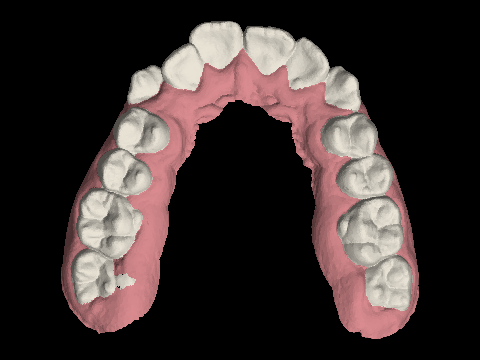
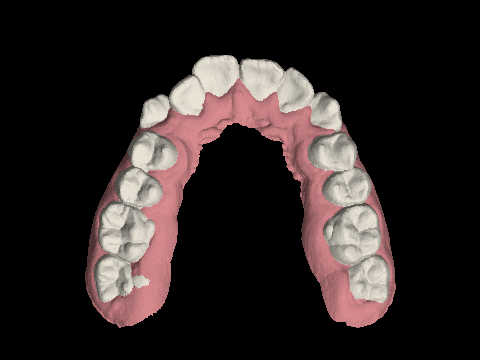
feat(cualign-prototype): 시작 상태를 그림+한 줄+버튼으로 줄이고 케이스 전환 잔상을 없앰 (#90)
- 에이전트 패널 시작 상태: 악궁 라인아트(투명 PNG) + 두 줄 제목 + 「샘플 케이스 고르기」 버튼, 입력창은 숨김
- 「닫기」를 「← 작업 화면으로 돌아가기」로 바꿔 샘플 카드 제목 줄에 둠
- 샘플 카드 제목은 소견만, 처방은 둘째 줄에
- 썸네일 세 장을 같은 축척·가운데·수평 정렬로 다시 그림(render_sample_thumbs.py)
- 뒤로가기·앞으로가기로 케이스를 오갈 때 이전 치아를 먼저 지우고 새 메시를 불러옴
- 시작 그림을 wheel 자산 목록에 추가

Changed region(s): [[0.125, 0.0611, 0.875, 0.9472]]

diff --git a/apps/cualign-prototype/src/cualign/server/static/index.html b/apps/cualign-prototype/src/cualign/server/static/index.html
@@ -97,14 +97,9 @@
   <main class="layout">
     <section class="chat">
       <div id="intro" class="intro">
-        <svg class="mark" viewBox="0 0 32 32" aria-hidden="true">
-          <rect width="32" height="32" rx="2" fill="#000"/>
-          <path fill="#fff" d="M8.91 23.71C12.17 23.71 14.16 21.84 14.22 18.93H10.61C10.51 20.12 9.87 20.75 8.97 20.75C7.86 20.75 7.12 19.81 7.12 17.92C7.12 16.06 7.86 15.13 8.97 15.13C9.87 15.13 10.51 15.77 10.61 16.94H14.22C14.18 14.07 12.13 12.22 8.91 12.22C5.32 12.22 3.16 14.54 3.16 17.96C3.16 21.39 5.32 23.71 8.91 23.71Z"/>
-          <path fill="#76b900" d="M18.03 23.5 18.91 20.59H23.89L24.78 23.5H28.98L24.06 8.65H18.75L13.8 23.5ZM19.81 17.63 21.33 12.65H21.45L22.99 17.63Z"/>
-        </svg>
+        <img class="mark" src="intro-arch.png" alt="" />
         <h1>처방을 말하면<br>단계 계획을 짜고 3D로 보여 줍니다</h1>
-        <p class="lead">"발치 없이, 12개월 안에, 앞니 먼저"처럼 조건을 말하면, 치아를 몇 단계에 걸쳐 어떤 순서로 옮길지 초안을 짜고 규칙으로 검사합니다.</p>
-        <p class="muted">오른쪽에서 케이스를 열면 대화가 시작됩니다.</p>
+        <button id="introPick" class="btn ghost small" type="button">샘플 케이스 고르기 →</button>
       </div>
       <fieldset id="constraints" class="constraints">
         <legend>의사 처방 · 대화로도 수정 가능</legend>
@@ -145,9 +140,11 @@
         <canvas id="viewCanvas"></canvas>
         <!-- 시작 상태: 케이스를 열기 전에는 3D 자리에 샘플 케이스를 둔다 (#46, #90) -->
         <div id="screenStart" class="start-pane">
-          <button id="startClose" class="btn ghost small start-x" type="button" hidden>닫기</button>
           <div class="start-body">
-          <h2>샘플 케이스로 시작하기</h2>
+          <div class="start-head">
+            <h2>샘플 케이스로 시작하기</h2>
+            <button id="startClose" class="btn ghost small" type="button" hidden>← 작업 화면으로 돌아가기</button>
+          </div>
           <div id="sampleCards" class="cards sample-cards"></div>
           <p class="hint">샘플은 공개 데이터셋 Poseidon3D(Kubik &amp; Spanel 2024, CC-BY-4.0)</p>
           <div class="gate-foot">

diff --git a/apps/cualign-prototype/src/cualign/server/static/style.css b/apps/cualign-prototype/src/cualign/server/static/style.css
@@ -275,15 +275,13 @@ button:disabled { cursor:not-allowed; }
 /* ---------- start state (#90): the work screen before a case is open ---------- */
 /* start state of the agent panel: mark + one line, centred like an empty chat (#90) */
 .intro { display: none; flex-direction: column; align-items: center; justify-content: center; text-align: center; padding: 24px; }
-.intro .mark { width: 64px; height: 64px; border: 1px solid var(--line); border-radius: var(--radius); margin-bottom: 20px; }
-.intro h1 { margin: 0 0 12px; font-size: 18px; font-weight: 700; line-height: 1.4; }
-.intro .lead { margin: 0 0 12px; max-width: 320px; color: var(--muted); font-size: 13px; line-height: 1.6; }
-.intro .muted { color: var(--faint); margin: 0; font-size: 12px; }
+.intro .mark { width: 160px; height: 160px; object-fit: contain; margin-bottom: 8px; }
+.intro h1 { margin: 0 0 20px; font-size: 18px; font-weight: 700; line-height: 1.4; }
 .start-pane { display: none; position: absolute; inset: 0; z-index: 5; overflow: auto; padding: 24px; background: var(--bg); }
 .start-body { width: min(840px, 100%); margin: auto; }
 .start-pane h2 { margin: 0 0 12px; font-size: 16px; font-weight: 700; }
 .start-pane .hint { color: var(--muted); font-size: 12px; margin: 12px 0 0; }
-.start-x { position: absolute; top: 16px; right: 16px; }
+.start-head { display: flex; align-items: center; justify-content: space-between; gap: 12px; }
 body.start .intro { display: flex; }
 body.start .start-pane { display: flex; }
 /* picking a sample: the start pane fades out while the case loads, then the workspace fades in */
@@ -304,4 +302,4 @@ body.start .constraints, body.start .transcript, body.start .retry-bar, body.sta
 body.start .view-head, body.start .legend, body.start .stage-bar, body.start .result,
 body.start #fallbackBtn, body.start #caseBtn, body.start .chat-tools, body.start .sel-chips, body.start .view-cube { display: none; }
 body.start .intro { flex: 1; }
-body.start .composer { opacity: 0.4; pointer-events: none; }
+body.start .composer { display: none; }   /* nothing to send before a case is open */

diff --git a/apps/cualign-prototype/src/cualign/server/static/app.js b/apps/cualign-prototype/src/cualign/server/static/app.js
@@ -705,7 +705,7 @@ async function loadCases() {
       img.src = `samples/${encodeURIComponent(c.case_id)}.png`;
       b.prepend(img);
       // the card shows the finding and the prescription only; the case number and tooth numbering come after it opens (#90)
-      b.querySelector(".cid").textContent = c.title;
+      b.querySelector(".cid").textContent = c.title.split(" — ")[0];
       b.querySelector(".rx").textContent = "처방 · " + c.prescription.replace(/\s*\(FDI[^)]*\)/, "");
       b.querySelector(".meta").textContent = c.available ? "" : "샘플 파일이 설치되지 않았습니다";
       b.disabled = !c.available;
@@ -744,6 +744,7 @@ async function activateCase(caseId, { greet = true } = {}) {
   state.requestId = null;
   state.messages = [];
   stopPlay();
+  if (caseId !== state.meshCase) { group.clear(); ghost.clear(); clearLabels(); state.meshCase = null; }
   const info = await api(`/api/cases/${encodeURIComponent(caseId)}/activate`, { method: "POST" });
   $("transcript").innerHTML = "";   // a conversation belongs to one patient scan
   await loadMesh(caseId);
@@ -1166,6 +1167,7 @@ $("caseBtn").addEventListener("click", () => {
   if (state.patient) openPatient(state.patient.patient_id).catch((err) => addMsg("error", err.message));
   else showStart().catch((err) => addMsg("error", err.message));
 });
+$("introPick").addEventListener("click", () => $("sampleCards").querySelector(".case-card:not(:disabled)")?.focus());
 $("startClose").addEventListener("click", async () => {
   leaveStart();
   if (state.activeCase && state.meshCase !== state.activeCase) {

diff --git a/apps/cualign-prototype/scripts/render_sample_thumbs.py b/apps/cualign-prototype/scripts/render_sample_thumbs.py
@@ -4,6 +4,7 @@
 
 Writes src/cualign/server/static/samples/<case_id>.png (committed). The view is the app's occlusal view: from above
 (+z), incisors at the top, the patient's right (tooth 2) on the left. Flat-shaded triangles drawn far to near.
+All samples share one scale and are centred, with the arch's wide axis turned horizontal, so the cards line up (#90).
 """
 from __future__ import annotations
 
@@ -37,24 +38,35 @@ def _polys(mesh: trimesh.Trimesh, colour: np.ndarray, faces: int):
     return tri[up][:, :, :2], tri[up][:, :, 2].mean(1), colour * shade[up, None]
 
 
-def render(sample: samples.Sample, out: Path) -> None:
+def load(sample: samples.Sample):
+    """Triangles of one arch, centred on the tooth bounding box and turned so the arch's wide axis is horizontal."""
     parts = [_polys(trimesh.load(sample.folder / f"{i}.stl", force="mesh"), TOOTH, 4000)
              for i in range(2, 16) if (sample.folder / f"{i}.stl").exists()]
+    teeth_xy = np.concatenate([p[0] for p in parts]).reshape(-1, 2)
     gum = sample.folder / "gingiva.stl"
     if gum.exists():
         parts.append(_polys(trimesh.load(gum, force="mesh"), GUM, 20000))
     xy = np.concatenate([p[0] for p in parts])
     z = np.concatenate([p[1] for p in parts])
     rgb = np.concatenate([p[2] for p in parts])
+    centre = (teeth_xy.min(0) + teeth_xy.max(0)) / 2
+    # the wide axis (left–right) is the first principal direction of the tooth points; keep it within ±45°
+    vx, vy = np.linalg.svd(teeth_xy - teeth_xy.mean(0), full_matrices=False)[2][0]
+    ang = np.arctan2(vy, vx)
+    ang = (ang + np.pi / 2) % np.pi - np.pi / 2
+    c, s = np.cos(-ang), np.sin(-ang)
+    xy = (xy - centre) @ np.array([[c, -s], [s, c]]).T
+    return xy, z, rgb
+
+
+def draw(xy, z, rgb, half: float, out: Path) -> None:
     order = np.argsort(z)                                  # far (low) first, near (high) last
     fig = plt.figure(figsize=(SIZE_PX[0] / DPI, SIZE_PX[1] / DPI), dpi=DPI, facecolor=BG)
     ax = fig.add_axes((0, 0, 1, 1))
     ax.set_facecolor(BG)
     ax.add_collection(PolyCollection(xy[order], facecolors=rgb[order], edgecolors="none", antialiased=False))
-    lo, hi = xy.reshape(-1, 2).min(0), xy.reshape(-1, 2).max(0)
-    pad = 0.06 * (hi - lo).max()
-    ax.set_xlim(lo[0] - pad, hi[0] + pad)
-    ax.set_ylim(lo[1] - pad, hi[1] + pad)
+    ax.set_xlim(-half * SIZE_PX[0] / SIZE_PX[1], half * SIZE_PX[0] / SIZE_PX[1])
+    ax.set_ylim(-half, half)
     ax.set_aspect("equal")
     ax.axis("off")
     fig.savefig(out, dpi=DPI, facecolor=BG)
@@ -63,12 +75,18 @@ def render(sample: samples.Sample, out: Path) -> None:
 
 def main() -> int:
     OUT.mkdir(parents=True, exist_ok=True)
+    arches = {}
     for s in samples.SAMPLES.values():
         if not s.available:
             print(f"skip {s.case_id}: not installed")
             continue
-        out = OUT / f"{s.case_id}.png"
-        render(s, out)
+        arches[s.case_id] = load(s)
+    if not arches:
+        return 0
+    half = 1.06 * max(np.abs(a[0]).max() for a in arches.values())   # one scale for every card
+    for case_id, (xy, z, rgb) in arches.items():
+        out = OUT / f"{case_id}.png"
+        draw(xy, z, rgb, half, out)
         print(f"{out.relative_to(APP)}  {out.stat().st_size // 1024} KB")
     return 0
 

diff --git a/apps/cualign-prototype/scripts/check_wheel.py b/apps/cualign-prototype/scripts/check_wheel.py
@@ -6,7 +6,7 @@ from zipfile import ZipFile
 def check_wheel(path):
     required = {f"cualign/core/templates/{tooth}.stl" for tooth in range(2, 16)}
     required.add("cualign/core/templates/ATTRIBUTION.md")
-    required.update(f"cualign/server/static/{name}" for name in ("index.html", "app.js", "style.css", "plan-stream.js"))
+    required.update(f"cualign/server/static/{name}" for name in ("index.html", "app.js", "style.css", "plan-stream.js", "intro-arch.png"))
     # start-screen samples (#46): real scans, their credit and thumbnails
     required.add("cualign/core/samples/ATTRIBUTION.md")
     for case in ("poseidon-000097", "poseidon-000131", "poseidon-000001"):
